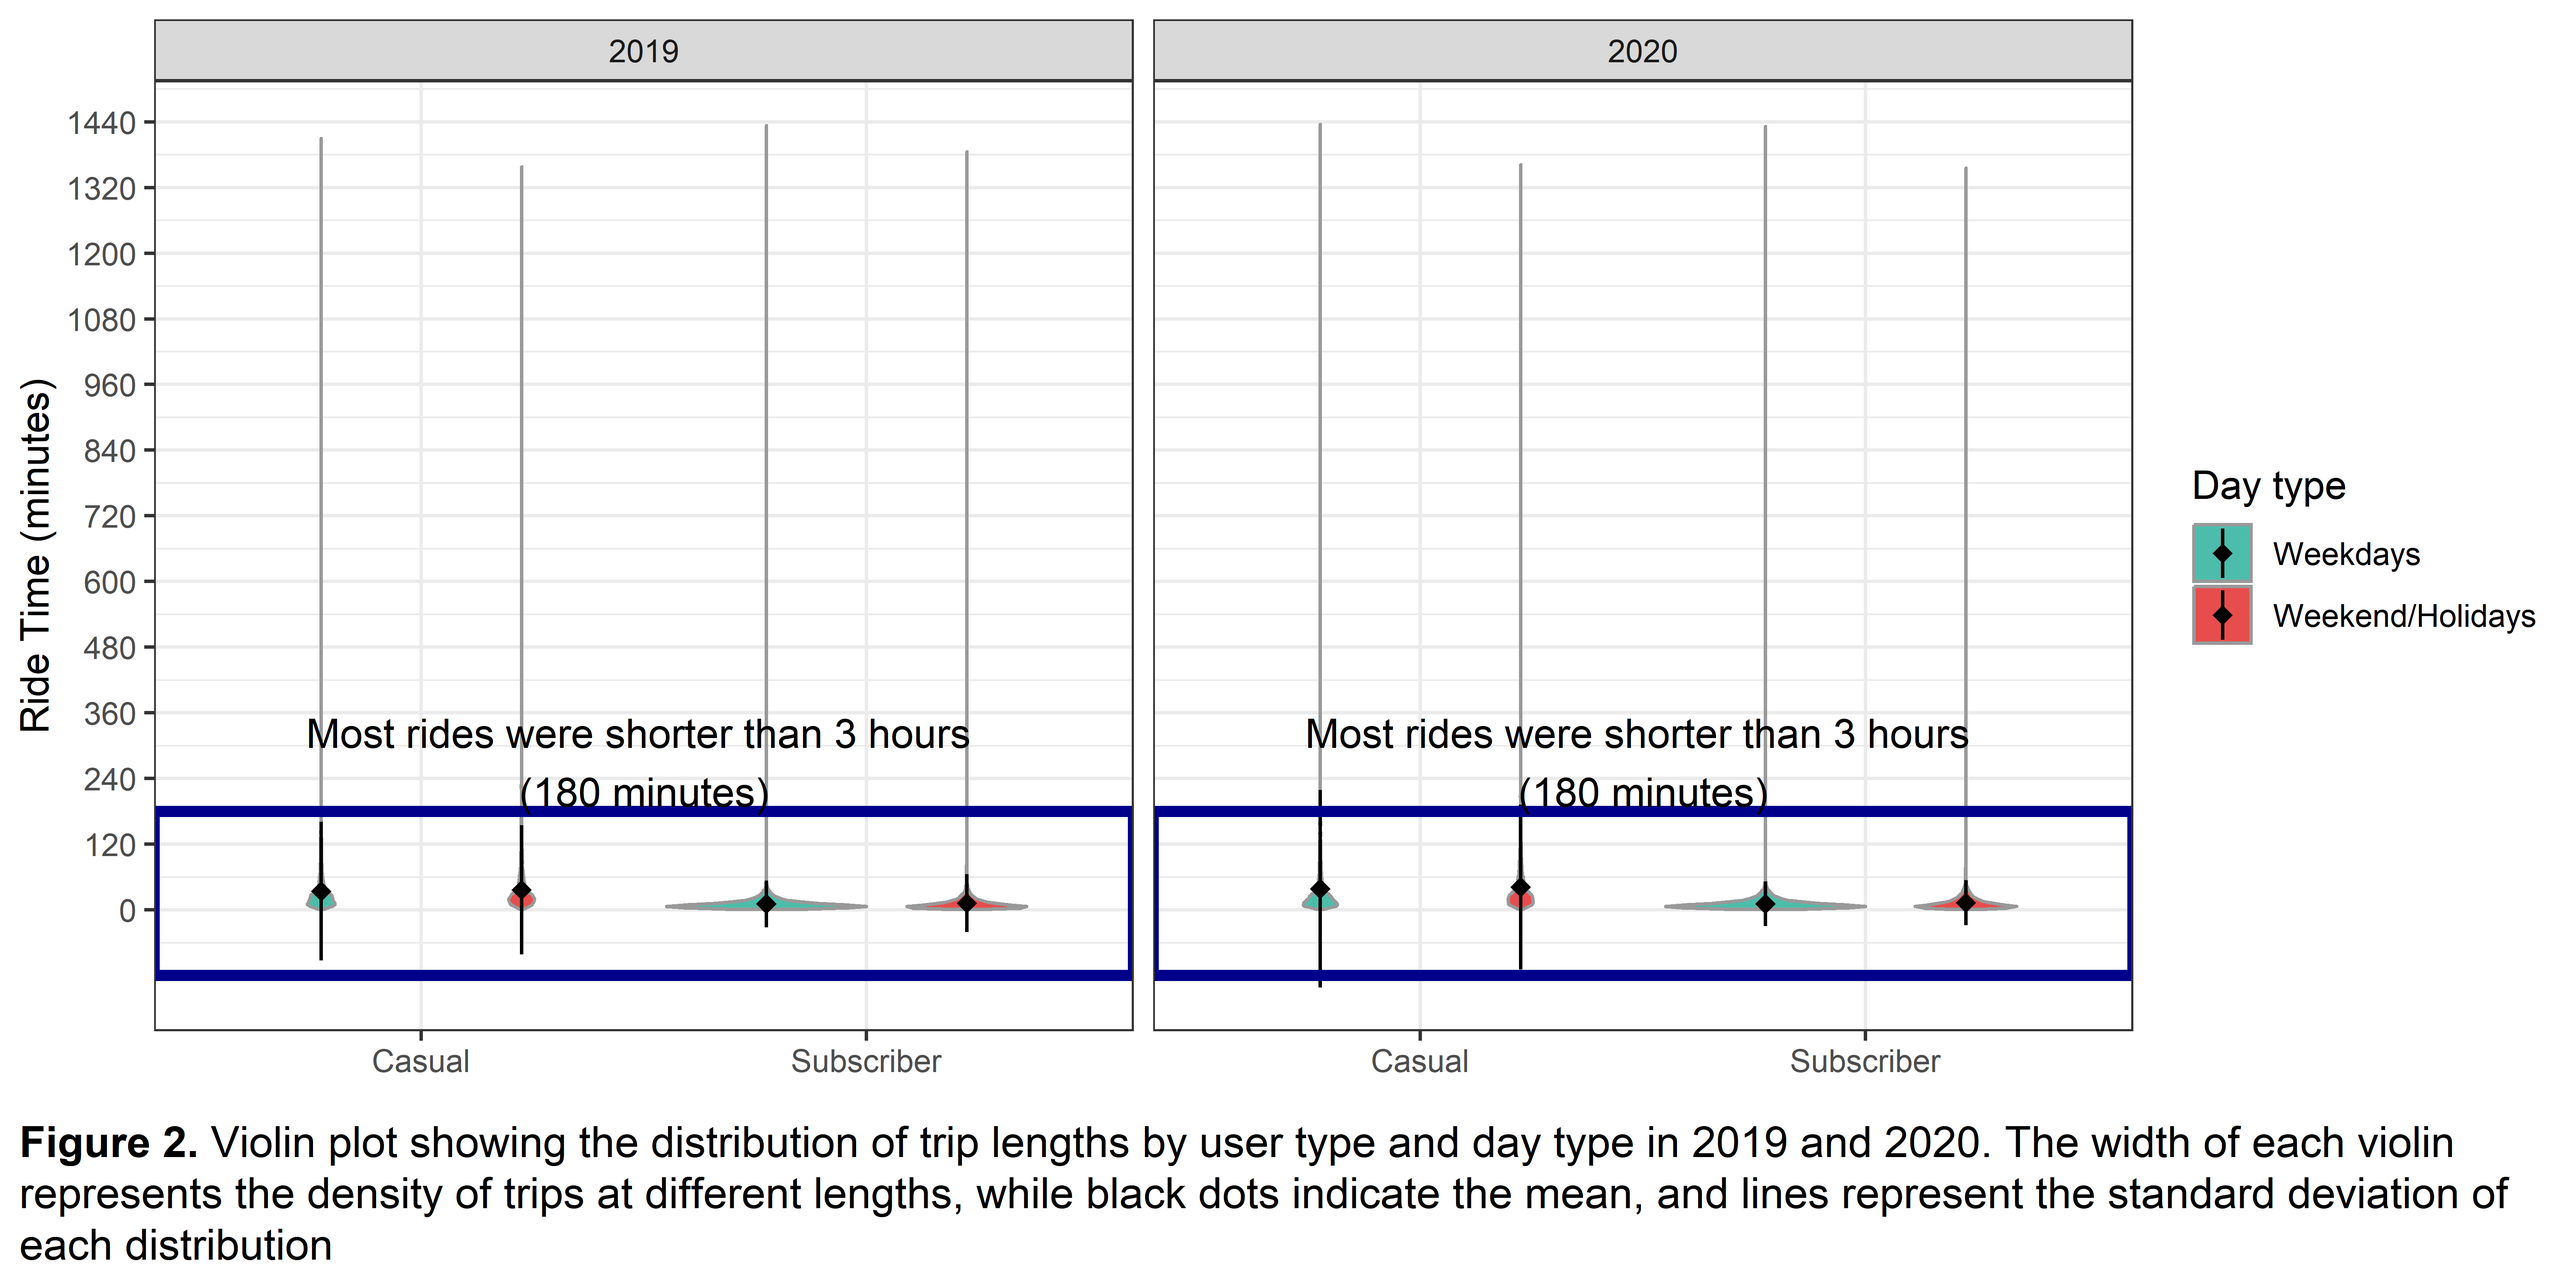
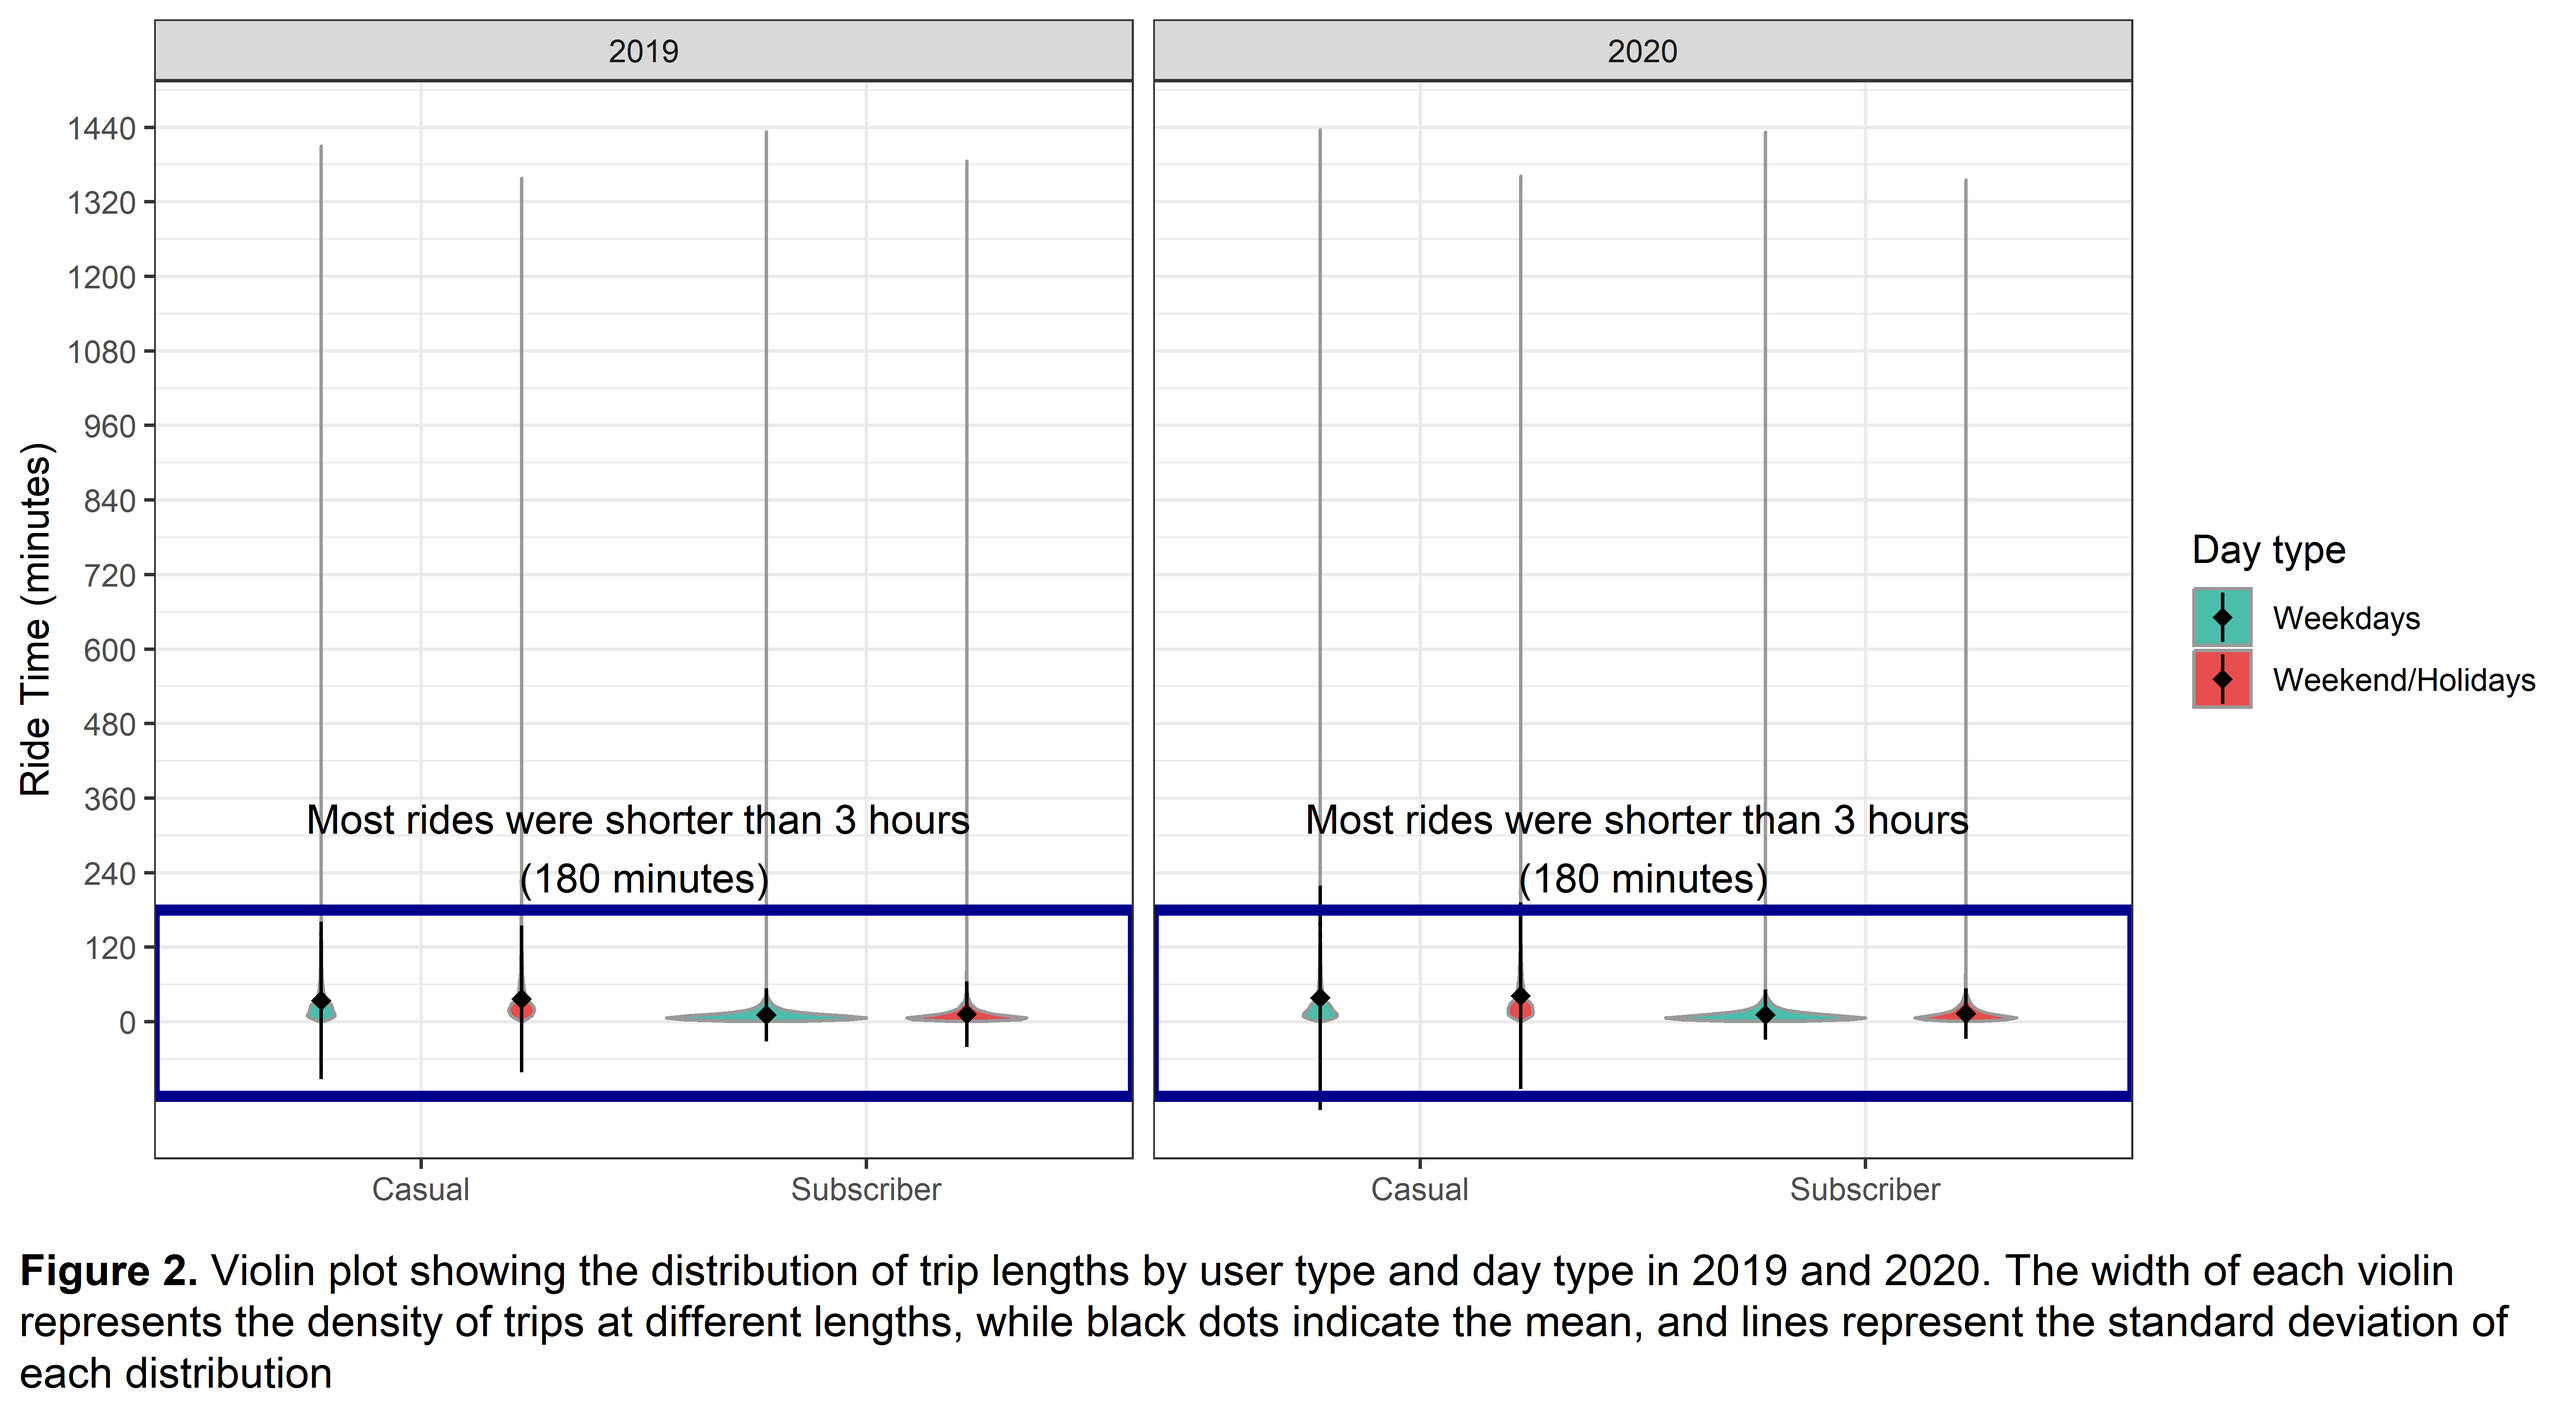
Initial commit

diff --git a/Cyclistic_bike-share.md b/Cyclistic_bike-share.md
@@ -1,8 +1,6 @@
-Google Analytics Capstone project
+Cyclistic bike-share analysis 2019-2020
 ================
 2025-03-30
-
-# Cyclistic bike-share analysis 2019-2020
 
 ## Background
 
@@ -209,7 +207,7 @@ kable(bike_sum,  col.names = c("Year","User Type", "Day type", "Number of trips"
       caption = '<b>Table 1.</b> Summary table showing the number of rides, along with the mean and standard deviation (SD) of ride length, grouped by user type and day type.')%>% 
   column_spec(1:2, bold = T,extra_css = "border-bottom: 1px solid;")%>% 
   collapse_rows(1:2,latex_hline = "major", valign = "middle") %>% 
-   kable_styling(position = "center") %>% 
+   kable_styling(latex_options = "HOLD_position") %>% 
   row_spec(c(0), extra_css = "border-bottom: 2px solid;") %>% 
   row_spec(c(2,4,6,8), extra_css = "border-bottom: 1px solid;")
 ```
@@ -360,7 +358,7 @@ ggplot(bikes2, aes(x=usertype, fill=day_type))+
   theme_bw() + theme(plot.caption = element_text(hjust = 0.5, size = 12))
 ```
 
-<img src="Cyclistic_bike-share_files/figure-gfm/count-1.png" style="display: block; margin: auto;" />
+<img src="Cyclistic_bike-share_files/figure-gfm/count-1.png" width="100%" style="display: block; margin: auto;" />
 
 In 2019, the total number of rides was 23,095 for casual users and
 341,782 for subscribers, with subscribers accounting for approximately
@@ -412,14 +410,14 @@ ggplot(bikes2, aes(x=usertype, y=ride_len_min, fill=day_type))+
   scale_y_continuous("Ride Time (minutes)", seq(0,1440,120))+
   annotate("rect", color = "blue4", alpha = 0, linewidth=1.5,
            xmin =-Inf, xmax = Inf, ymin = -120, ymax = 180) + 
-  annotate("text", x = 1.5, y = 270, size=4,
+  annotate("text", x = 1.5, y = 280, size=4,
            label ="Most rides were shorter than 3 hours \n(180 minutes)")+
   labs(x=" ", caption = "**Figure 2.** Violin plot showing the distribution of trip lengths by user type and day type in 2019 and 2020. The width of each violin represents the density of trips at different lengths, while black dots indicate the mean, and lines represent the standard deviation of each distribution")+ 
   theme_bw() + 
   theme(plot.caption = element_textbox_simple(padding = margin(0, 10, 0, 0),size = 12), plot.caption.position = "plot")
 ```
 
-<img src="Cyclistic_bike-share_files/figure-gfm/mean_time-1.png" style="display: block; margin: auto;" />
+<img src="Cyclistic_bike-share_files/figure-gfm/mean_time-1.png" width="100%" style="display: block; margin: auto;" />
 
 As shown in **Figure 2**, most trips lasted less than three hours (180
 minutes). Therefore, to prevent longer trips from skewing the
@@ -572,7 +570,7 @@ ggplot(filter(bikes2,ride_len_min<180), aes(x=usertype, y=ride_len_min, fill=day
   theme(plot.caption = element_textbox_simple(padding = margin(0, 10, 0, 0),size = 12), plot.caption.position = "plot")
 ```
 
-<img src="Cyclistic_bike-share_files/figure-gfm/mean_time2-1.png" style="display: block; margin: auto;" />
+<img src="Cyclistic_bike-share_files/figure-gfm/mean_time2-1.png" width="100%" style="display: block; margin: auto;" />
 
 Trip duration patterns remained consistent across 2019 and 2020, despite
 the difference in the number of rides between the two years. In both
@@ -703,7 +701,7 @@ chicago+
         axis.title.x = element_text(margin=margin(0, -5, 0, 20)))
 ```
 
-<img src="Cyclistic_bike-share_files/figure-gfm/stationplot-1.png" style="display: block; margin: auto;" />
+<img src="Cyclistic_bike-share_files/figure-gfm/stationplot-1.png" width="100%" style="display: block; margin: auto;" />
 
 ``` r
 #Zoom in into the city center of Chicago
@@ -733,7 +731,7 @@ chicago2+
         axis.title.x = element_text(margin=margin(0, -5, 0, 20)))
 ```
 
-<img src="Cyclistic_bike-share_files/figure-gfm/stationplot-2.png" style="display: block; margin: auto;" />
+<img src="Cyclistic_bike-share_files/figure-gfm/stationplot-2.png" width="100%" style="display: block; margin: auto;" />
 
 Maps from 2019 show that trips started by subscribers were more widely
 distributed across the city, whereas trips started by casual users were
@@ -898,7 +896,7 @@ ggplot(bike2019_demo, aes(x=age, y=n, fill=usertype))+
   theme_bw() + theme(plot.caption = element_textbox_simple(valign =0,  padding = margin(0, 15, 0, 0),size = 12), plot.caption.position = "plot")
 ```
 
-<img src="Cyclistic_bike-share_files/figure-gfm/demographics-1.png" style="display: block; margin: auto;" />
+<img src="Cyclistic_bike-share_files/figure-gfm/demographics-1.png" width="100%" style="display: block; margin: auto;" />
 
 The 2019 demographic data shows differences between male and female
 users. Among casual users, male trips accounted for up to twice as many
